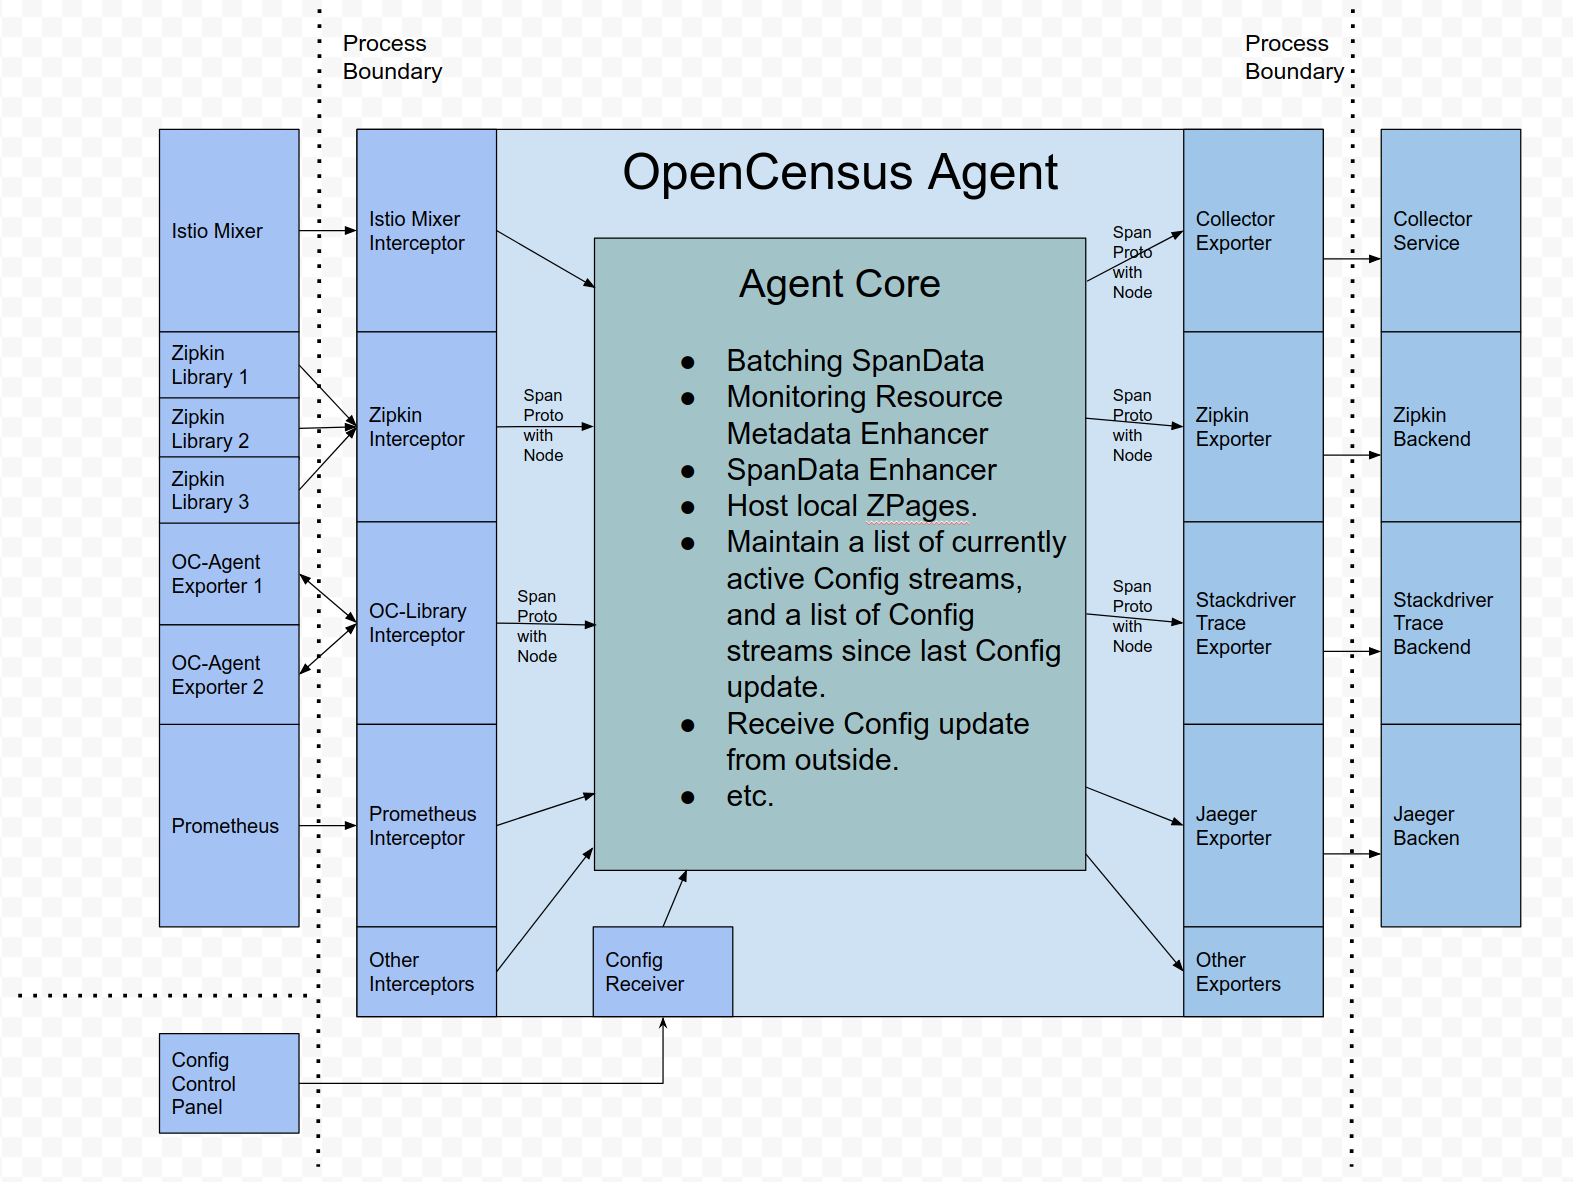
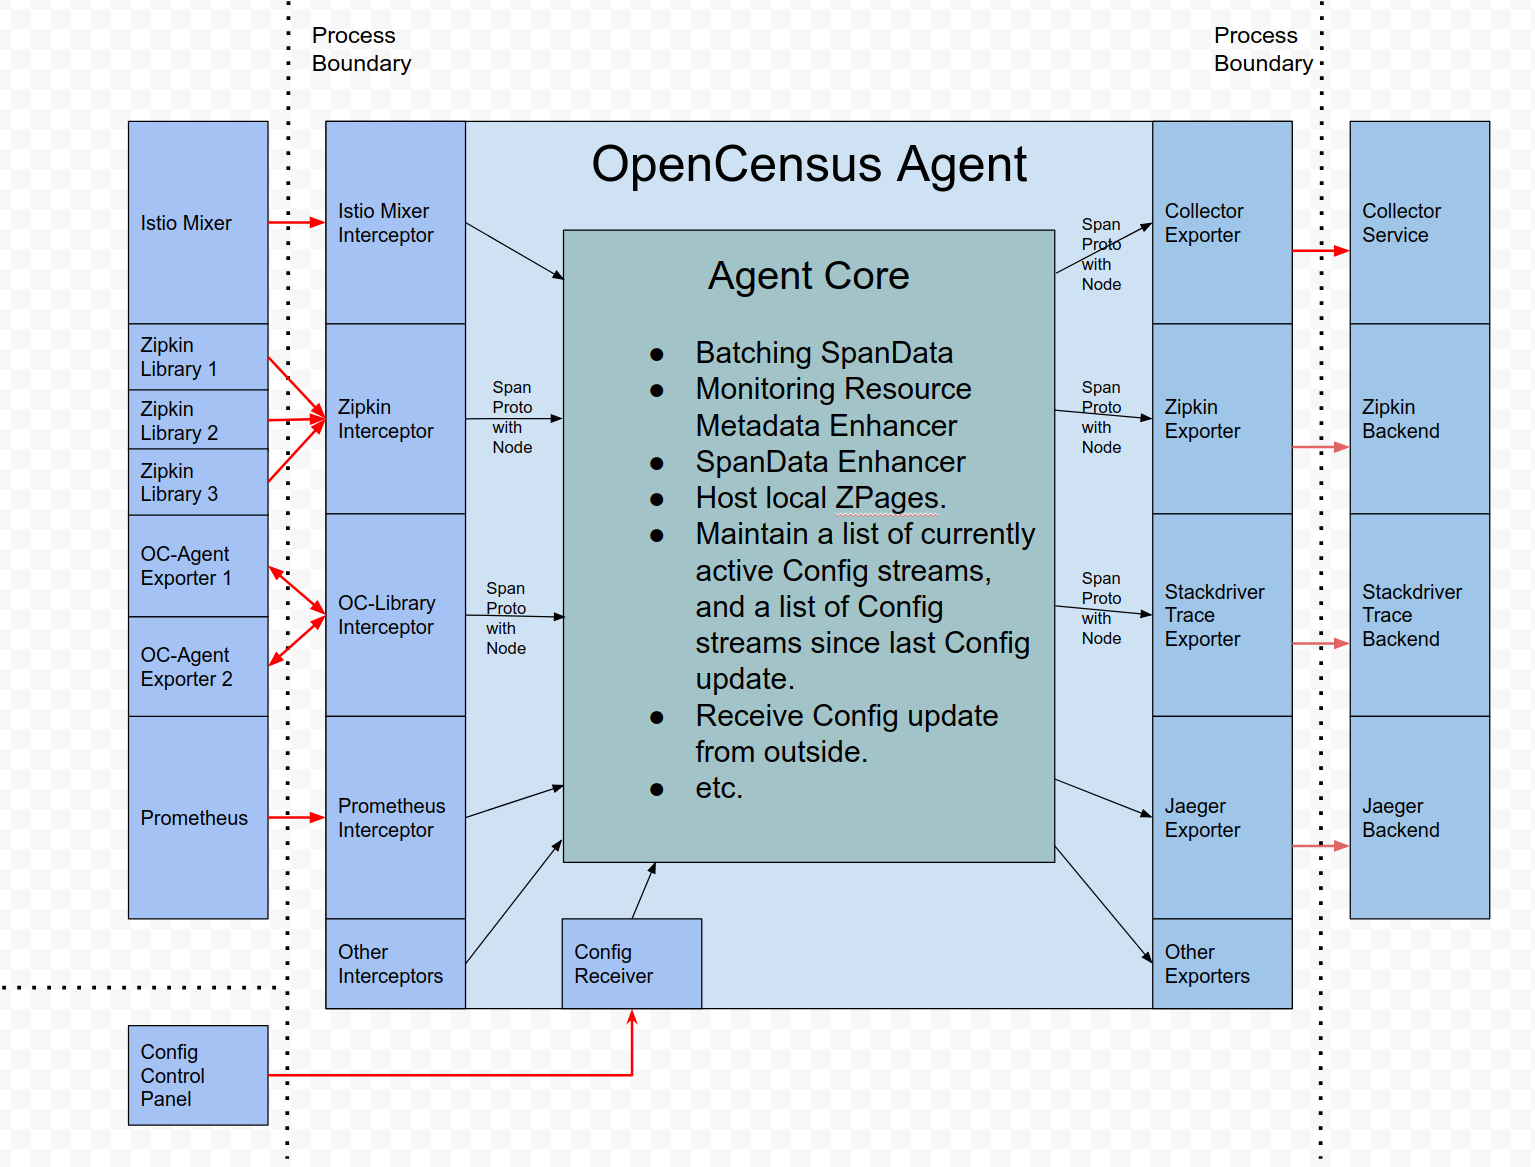
Update graph.

Changed region(s): [[0.0612, 0.0, 0.9798, 0.9871]]

diff --git a/src/opencensus/proto/agent/README.md b/src/opencensus/proto/agent/README.md
@@ -63,6 +63,9 @@ This section describes the in-process implementation details of OC-Agent.
 
 ![agent-implementation](agent-implementation.png)
 
+Note: Red arrows represent RPCs or HTTP requests. Black arrows represent local method
+invocations.
+
 The Agent consists of three main parts:
 
 1. The interceptors of different instrumentation libraries, such as OpenCensus, Zipkin,
